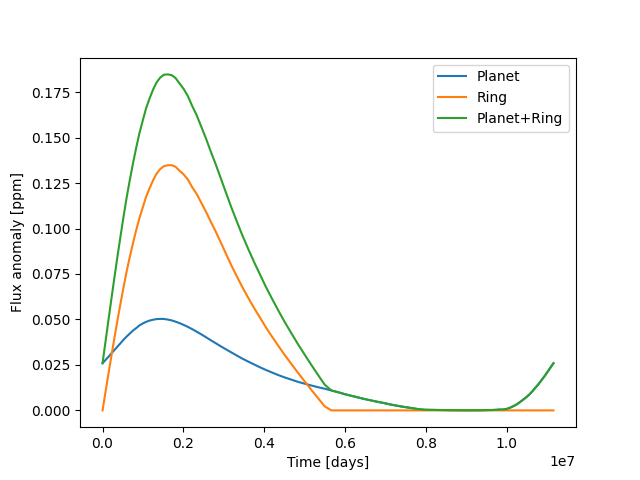
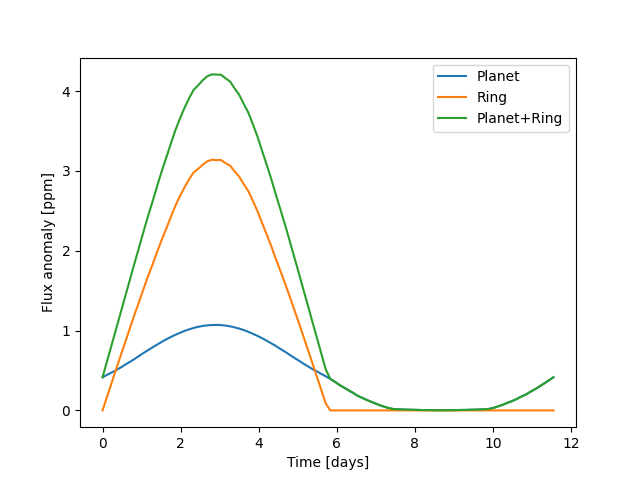
Commit

diff --git a/README.md b/README.md
@@ -122,7 +122,7 @@ Rrs=[]
 ts=[]
 for lamb in lambs:
     RP.changeStellarPosition(lamb)
-    ts+=[RP.t*RP.CU.UT]
+    ts+=[RP.t*sys.ut/pr.Const.days]
     RP.updateOpticalFactors()
     RP.updateDiffuseReflection()
     Rps+=[RP.Rip.sum()]
@@ -147,7 +147,9 @@ ax.legend();
 
 And *voilà*! 
 
-
+<p align="center">
+<img src="https://github.com/seap-udea/pryngles-public/blob/master/gallery/example-light-curve.png?raw=true" alt="Light curve"/>
+</p>
 
 Let's have some `Pryngles`.
 
@@ -170,6 +172,11 @@ This is the *disco* version of Pryngles.  We are improving the
 resolution and performance of the software for future releases.
 
 ## What's new
+
+- **0.4.x versions**:
+
+  - A new model to create and populate planetary system has been
+    implemented.
 
 - **0.3.x versions**:
 
